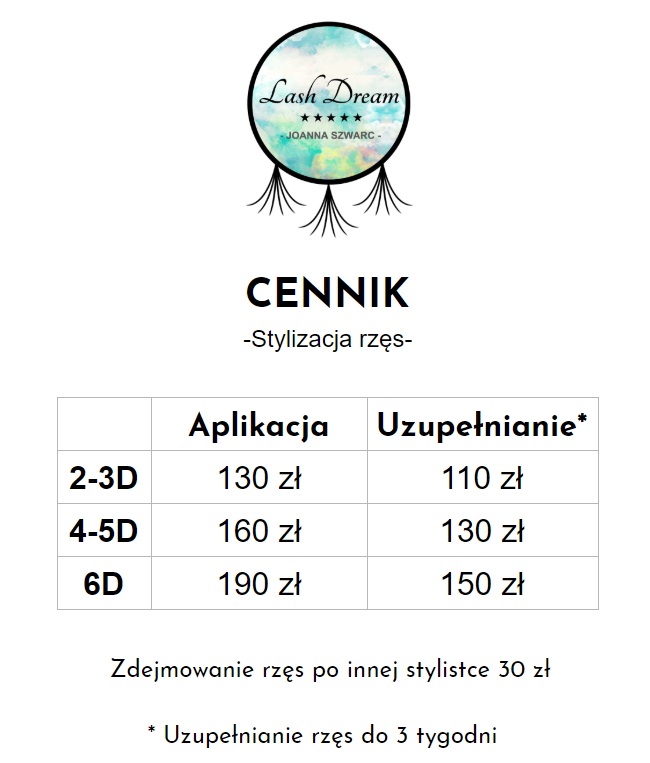
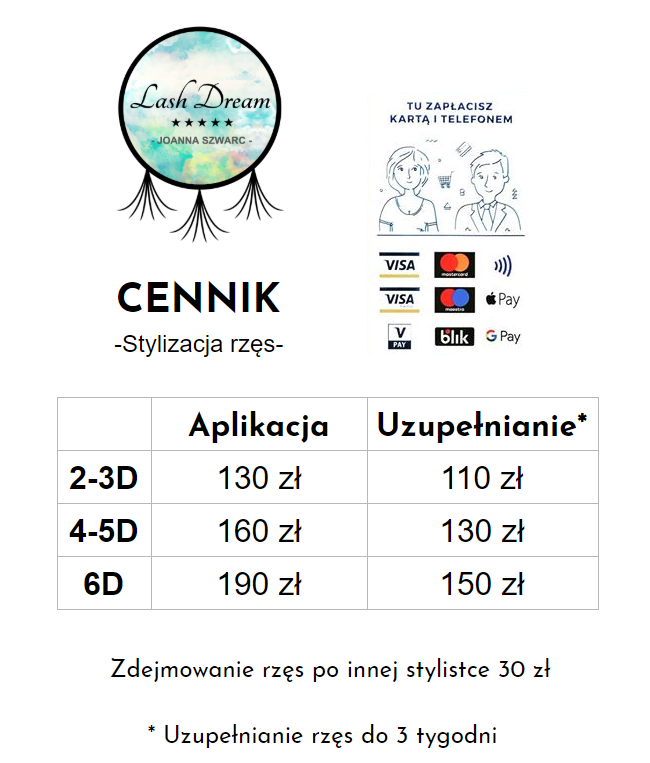
Platnosc karta i otwarte pon-pt

Changed region(s): [[0.1846, 0.0301, 0.8, 0.4823]]

diff --git a/zabiegi.html b/zabiegi.html
@@ -234,7 +234,7 @@
             <div id="confirmation-div">
               <span id="step3_txt">
                 <b>Wybrany zabieg:</b> <span id="step3_desc"></span>
-                <b>Terminy wizyt:</b> Przyjmuję od poniedziałku do soboty. Po odebraniu Twojej rezerwacji <span style="color: #e61a8d">jeszcze dzisiaj</span> otrzymasz ode mnie potwierdzenie umówienia wizyty.</span>
+                <b>Terminy wizyt:</b> Przyjmuję od poniedziałku do piątku. Po odebraniu Twojej rezerwacji <span style="color: #e61a8d">jeszcze dzisiaj</span> otrzymasz ode mnie potwierdzenie umówienia wizyty.</span>
               </span>
               <br /><br />
 

diff --git a/index.html b/index.html
@@ -167,7 +167,7 @@
                     <img src="img/cennik.png" style="width: 100%">
                   </a>
                 </div>
-                <div class="content">  </div>
+                <div class="content"> Możliwa płatność kartą </div>
               </div>
 
 
